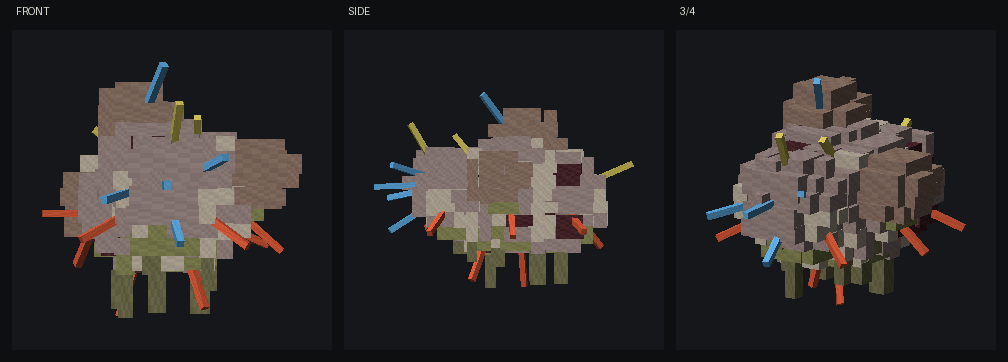
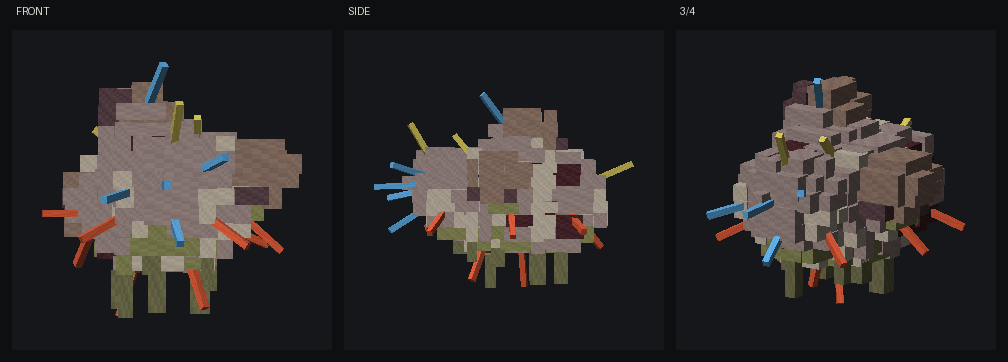
异变缝合兽：核心层终轮复查 + 流水线 README (round 3/3)
多角度复查（顶/后/左/低角度，不只三视图）逮到两处 round 2 漏的：

**赘生物整块刷同一个 tan**：从后方看 lump_dorsal 就是个平顶木箱。改为 scar 与本体
肉色/暗色按斑块混合——赘生物是肉不是贴上去的板。

**大 slab 顶面太平**：贪心合并把大面积同材质区并成整张平板，抖动幅度相对跨度压不住，
顶视/后视渲成梯田。加跨度硬上限 MAX_RUN=3，从源头上不产生大平面。代价是块数
278→289，值得付。

README 记下两条**不许改回去**的决策及其理由：① 不对称是硬约束（自检断言 ≥20%，
报错文案直接写"别去平衡 LOBES"，mirror_problems 在这里是反着用的）；② 融合痕不是
缝合口（正典是自体塑性再生，自检卡粗细跨度 + 肉瘤存在防它被做回等粗等距的缝合线）。

<PROMISE>该黏状核心已经过 3 轮打磨 + 复查，达到当前能力上限。
已检查[隐式场等值面轮廓 / 左右不对称度 32.4% / 骨骼分段每 lobe 均分到几何 /
17 挂载点全部落在等值面且法向朝外、两两间距 ≥4.6 / 癒合痕覆盖每处 lobe 交界且粗细
不齐 / 尺寸 1.79×1.48×2.02 格与腹底 y=12.9 的腿层空间 / 垂滴不垂进腿层 /
顶后左低四个额外角度渲染]。
仍存局限[顶视轮廓仍偏矩形，是体素网格轴对齐的固有代价，跨度上限与抖动只能缓解；
"几只野兽融成一只"这个读法目前全靠癒合痕承担，真正落地要等部件层把头和肢挂上去；
挂载点 girth 区分度窄（3.7-4.1），要等有粗细不同的真实部件才知道够不够用]。</PROMISE>

Model: claude-opus-5

diff --git a/scripts/models/stitched_beast/README.md b/scripts/models/stitched_beast/README.md
@@ -1,0 +1,83 @@
+# 异变缝合兽 建模流水线
+
+正典：`docs/worldview.md` §七 L735 · 图书馆《异兽三形考》§兽·噬 / 《异变图谱·残卷》其三。
+
+> 非凭空生，乃数兽相吞融成。……不是物理接合——是一层层组织的重新编织，骨对着骨重新接，
+> 皮对着皮重新缝。这不是魔功。这是一种余不知名的**塑性再生**。
+
+三形（噬元鼠 ✅ / 拟态灰烬蛛 ✅ / 缝合兽）之末。此前客户端只有 4 骨 5 方块的占位。
+
+## 设计主轴
+
+缝合兽和其它生物的根本区别：**它没有固定形态**。每一只都是不同几只野兽的残骸长到一起的
+结果。所以这条流水线产出的不是"一个模型"，而是**一个生成器**——核心固定，肢体/头颅由
+基因组随机装配。
+
+三层：
+
+| 层 | 内容 | 状态 |
+|----|------|------|
+| 核心层 | 黏状核心本体 + 挂载点 + 癒合痕 | ✅ |
+| 部件层 | 头颅库（鼠/狼/猪/牛/羊/鸡/羊/狐）+ 肢体库（蛛足/兽腿/禽腿/触手/退化肢） | ⬜ |
+| 运动层 | 按肢体几何派生的步态 + 逐肢攻击方式 | ⬜ |
+
+## 核心层：一切都从同一个隐式场里派生
+
+核心不建成箱子——箱子是"设计过的形状"，而这东西没有被设计过。改用各向异性高斯和：
+
+```
+f(p) = Σ wᵢ · exp(-|(p - cᵢ)/sᵢ|²)      等值面 f = 1 即表皮
+```
+
+四件东西全部从这一个场里掉出来，没有一件是手摆的：
+
+| 派生物 | 怎么来的 |
+|--------|---------|
+| 几何 | 等值面体素化 → 逐层贪心矩形合并 → **只留表层**（内部块永远看不见） |
+| 骨骼 | 每体素归属于对它贡献最大的**正权** lobe，lobe 即骨 |
+| 癒合痕 | 两个 lobe 在表面的交界处即是痕——与骨骼分段共用同一划分 |
+| 挂载点 | 从核心内部射线求表面点，法向取 `-∇f`，girth 由局部平坦度定 |
+
+**负权 lobe（`GROOVES`）用来刻沟**：高斯和永远是凸的，只加正权必然鼓成一只圆面包。
+交界处刻沟，才读得出"几团东西挤在一张皮里"。负权段不参与 `owner()`，不抢骨骼归属。
+
+## 两条不许改回去的决策
+
+**① 不对称是硬约束，不是缺陷。** `lump_l` 长在左肋、`lump_dorsal` 偏右背、`nodule_r`
+在右后。自检**断言不对称度 ≥20%**（当前 32.4%），报错文案直接写明"别去平衡 LOBES"。
+`voxel_rig.mirror_problems` 在这里是反着用的——镜像件缺失是期望行为。
+
+**② 融合痕不是缝合口。** 没有线、没有针、没有等距横扣——那是人造缝合的读法。正典写的是
+自体"塑性再生"，留下的是不规则隆起：粗细逐段随机、一成几率断开（融合彻底处无痕）、
+一成几率堆成肉瘤。自检卡「粗细跨度 ≥0.35」+「至少一处肉瘤」防它被做回等粗等距。
+
+## 命令
+
+```bash
+python3 scripts/models/stitched_beast/gen_core.py            # 生成 + 全部自检
+python3 scripts/models/stitched_beast/gen_core.py --check    # 只自检不写文件
+python3 scripts/models/stitched_beast/preview.py --three-view
+python3 scripts/models/stitched_beast/preview.py --sockets   # 挂载点针（红=肢 蓝=头 黄=退化）
+```
+
+`.bbmodel` 落 `scripts/models/local_models/`（gitignored）；渲染图落 `renders/`。
+
+## 文件
+
+| 文件 | 职责 |
+|------|------|
+| `core.py` | 场定义 / 体素化 / 合并 / 癒合痕 / 挂载点枚举——纯几何，不碰 bbmodel |
+| `gen_core.py` | 场 → `.bbmodel` + 八项自检 |
+| `preview.py` | 渲染；`--sockets` 把挂载点渲成从表皮戳出的针，肉眼验位置 |
+
+## 当前数字
+
+278–289 块 / 8 骨 / 17 挂载点（肢 ×8 · 头 ×5 · 退化 ×4），本体 1.79 × 1.48 × 2.02 格，
+腹底 y≈12.9 给腿层留空间，不对称度 32.4%。
+
+## 已知局限
+
+- 顶视轮廓仍偏矩形——体素网格轴对齐的固有代价，靠抖动和跨度上限只能缓解不能消除。
+- 「几只野兽融成一只」这个读法目前只靠癒合痕承担；真正落地要等部件层把头和肢挂上去。
+- 挂载点的 `girth` 目前区分度窄（3.7–4.1），赘生物上的槽还没被真正卡住——等部件层
+  有粗细不同的真实部件时才知道这个量够不够用。
